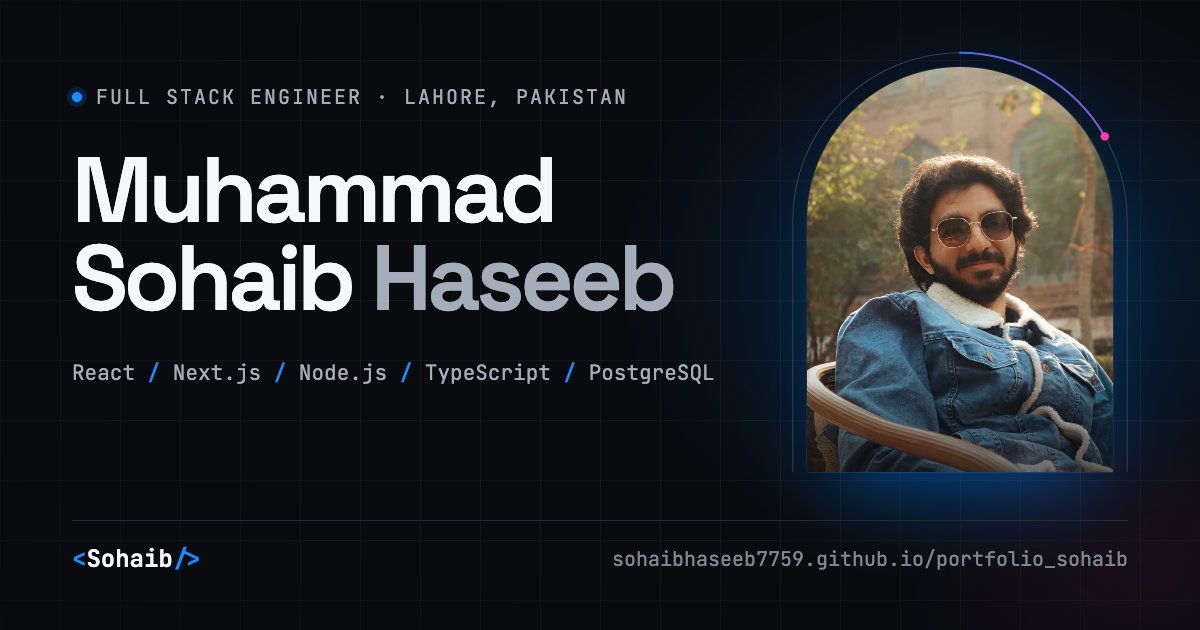
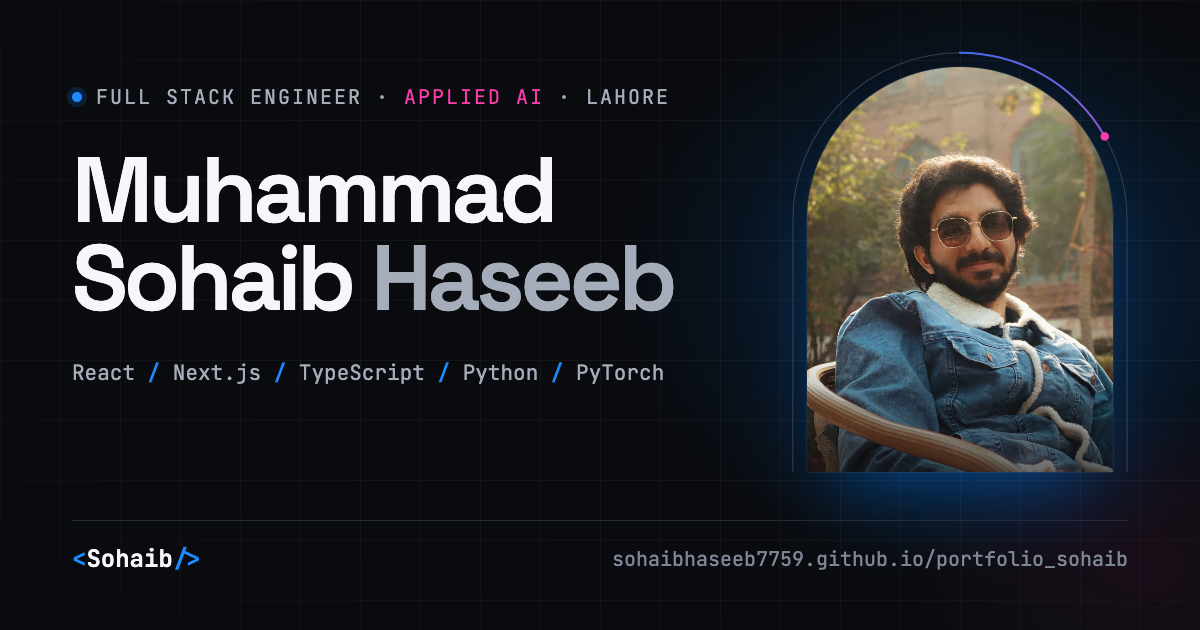
Feature AI projects and mark Backlinker AI as past role
Replace the four small course projects (usePopcorn, Forkify, Omnifood,
Far Away) with two AI projects, described from their repositories:

- Train Detector: YOLO11 segmentation trained on hand-annotated data
  (0.83 box / 0.79 mask mAP50 on validation, from its training log),
  PaddleOCR, Gradio, human-in-the-loop retraining, video OCR to JSON
- Voice Recognition: Whisper speech-to-text app with a dataset
  recorder, Transformers fine-tuning pipeline, WER evaluation and
  XTTS-v2 voice cloning (private repository)

Show applied AI across the site: hero label and lede, About copy, an
Applied AI skill area, an AI & ML toolkit row, meta description,
schema.org knowsAbout and the share image. Four project cards now sit
in a 2 x 2 grid.

Backlinker AI ended in May 2026: no longer current, bullets in past
tense, and the Experience intro no longer mentions two ongoing roles.

Changed region(s): [[0.2467, 0.573, 0.5858, 0.6032], [0.3392, 0.1206, 0.4933, 0.181], [0.5242, 0.1206, 0.555, 0.181]]

diff --git a/src/data/site.ts b/src/data/site.ts
@@ -12,6 +12,8 @@ export const profile = {
   name: "Muhammad Sohaib Haseeb",
   shortName: "Sohaib",
   role: "Full Stack Engineer",
+  /** Second line of positioning, shown beside the role in the hero. */
+  specialty: "Applied AI",
   location: "Lahore, Pakistan",
   coords: "31.55°N 74.34°E",
   email: "sohaibhaseeb01@gmail.com",
@@ -20,7 +22,13 @@ export const profile = {
   cv: "Muhammad_Sohaib_Haseeb_CV.pdf",
   github: "https://github.com/SohaibHaseeb7759",
   linkedin: "https://www.linkedin.com/in/sohaib-haseeb-9a9276282",
-  focus: ["React", "Next.js", "Node.js", "TypeScript", "PostgreSQL"],
+  focus: ["React", "Next.js", "TypeScript", "Node.js", "Python", "PyTorch"],
+  /** One-sentence pitch for the hero; `highlight` is the marked phrase inside it. */
+  lede: {
+    before: "I build",
+    highlight: "production web applications",
+    after: "across the stack, plus applied AI: computer vision and speech models.",
+  },
   /** Shown under the current roles in the hero. Leave empty to hide the line. */
   availability: "Open to full-time and contract roles · remote or Lahore",
 };
@@ -95,13 +103,12 @@ export const experience: Role[] = [
     title: "Frontend Developer",
     stack: "Next.js & TypeScript",
     start: "Jan 2026",
-    end: "Present",
-    current: true,
+    end: "May 2026",
     where: "Remote",
     points: [
-      "Build and ship responsive, type-safe UI components for a SaaS platform in Next.js and TypeScript.",
-      "Integrate REST APIs and manage asynchronous data flows, including loading and error states, for dynamic content.",
-      "Profile and optimise front-end performance, and agree API contracts with backend engineers to deliver features that scale.",
+      "Built and shipped responsive, type-safe UI components for a SaaS platform in Next.js and TypeScript.",
+      "Integrated REST APIs and managed asynchronous data flows, including loading and error states, for dynamic content.",
+      "Profiled and optimised front-end performance, and agreed API contracts with backend engineers to deliver features that scale.",
     ],
   },
   {
@@ -134,6 +141,11 @@ export const capabilities = [
     summary:
       "Client sites shipped end to end as the sole developer, on Payload CMS and WordPress so content stays editable without code. Each one is integrated, deployed, and resilient when services go down.",
   },
+  {
+    title: "Applied AI",
+    summary:
+      "Computer vision and speech models in Python: training YOLO11 segmentation on hand-annotated data, OCR with PaddleOCR, and fine-tuning Whisper with Hugging Face Transformers, measured with mAP and word error rate.",
+  },
 ];
 
 export const stack = [
@@ -148,6 +160,10 @@ export const stack = [
   {
     group: "Backend & data",
     items: ["Node.js", "Express.js", "Django REST", "Payload CMS", "Supabase", "PostgreSQL", "MySQL", "MongoDB"],
+  },
+  {
+    group: "AI & ML",
+    items: ["PyTorch", "Hugging Face Transformers", "YOLO11", "OpenAI Whisper", "PaddleOCR", "OpenCV", "Gradio", "Coqui XTTS"],
   },
   {
     group: "Tools & cloud",
@@ -209,6 +225,40 @@ export const projects: Project[] = [
     device: "phone",
   },
   {
+    slug: "train-detector",
+    title: "Train Detector",
+    kind: "Computer vision · detection, segmentation & OCR",
+    layout: "text",
+    date: "Sep 2026",
+    summary:
+      "A Gradio app that finds and outlines trains in photos with a custom-trained YOLO11 segmentation model, then reads locomotive IDs with PaddleOCR.",
+    built: [
+      "Trained YOLO11n-seg on hand-annotated CVAT polygons: 0.83 box and 0.79 mask mAP50 on its validation set",
+      "Human-in-the-loop learning: each confirmed or rejected detection joins the dataset, and the model retrains from the app",
+      "Video OCR to JSON: scans frames and exports every piece of text with frame numbers, timestamps and confidence",
+    ],
+    stack: ["Python", "YOLO11", "PaddleOCR", "Gradio", "OpenCV"],
+    flow: ["Image / video", "YOLO11-seg", "PaddleOCR", "Gradio"],
+    repo: "https://github.com/SohaibHaseeb7759/Train-Detector-Model",
+  },
+  {
+    slug: "voice-recognition",
+    title: "Voice Recognition",
+    kind: "Speech AI · Whisper speech-to-text",
+    layout: "text",
+    date: "Oct 2026",
+    summary:
+      "A desktop speech-to-text app on OpenAI Whisper, with the full pipeline to fine-tune the model on your own voice and measure the improvement.",
+    built: [
+      "A Tkinter app with live mic metering, a model picker, language detection and timestamped segments",
+      "A dataset recorder with quality checks and fixed-seed splits, feeding Whisper fine-tuning with Transformers",
+      "Word error rate evaluation for before and after, plus zero-shot voice cloning with XTTS-v2",
+    ],
+    stack: ["Python", "Whisper", "Transformers", "PyTorch", "Coqui XTTS"],
+    flow: ["Microphone", "Whisper", "Fine-tune + WER", "Text"],
+    sourcePrivate: true,
+  },
+  {
     slug: "bidmuse",
     title: "BidMuse",
     kind: "Online bidding platform · Final year project",
@@ -233,59 +283,6 @@ export const projects: Project[] = [
     built: ["WebSocket-based real-time messaging", "User authentication", "A responsive chat interface"],
     stack: ["React.js", "Node.js", "Express.js", "MongoDB", "WebSockets"],
     flow: ["React", "WebSockets", "Node + Express", "MongoDB"],
-  },
-  {
-    slug: "usepopcorn",
-    title: "usePopcorn",
-    kind: "Movie search & rating app",
-    layout: "text",
-    summary:
-      "Search any film, open its details, rate it with a custom star component, and keep a personal watched list.",
-    built: [
-      "Live search against the OMDb API with loading and error states",
-      "A reusable, configurable StarRating component",
-      "A custom useLocalStorage hook so the watched list survives reloads",
-    ],
-    stack: ["React", "Hooks", "OMDb API", "localStorage"],
-    flow: ["React + Hooks", "OMDb API", "localStorage"],
-    repo: "https://github.com/SohaibHaseeb7759/usePopcorn-Sohaib",
-  },
-  {
-    slug: "forkify",
-    title: "Forkify",
-    kind: "Recipe discovery app",
-    layout: "text",
-    summary: "Browse and search a large recipe catalogue, open full recipes, and save favourites for later.",
-    built: ["Recipe search and result browsing", "Detailed recipe views", "Saving favourite recipes"],
-    stack: ["JavaScript", "HTML", "CSS", "Forkify API"],
-    flow: ["HTML + CSS", "JavaScript", "Forkify API"],
-    live: "https://forkify-sohaib.netlify.app/",
-  },
-  {
-    slug: "omnifood",
-    title: "Omnifood",
-    kind: "Responsive marketing site",
-    layout: "text",
-    summary: "A responsive restaurant and meal-subscription website that presents the menu and services.",
-    built: ["Fully responsive layout", "Modern UI/UX patterns for engagement", "Hand-written HTML, CSS, and JavaScript"],
-    stack: ["HTML", "CSS", "JavaScript"],
-    flow: ["Semantic HTML", "Responsive CSS", "JavaScript"],
-    live: "https://omnifood-sohaib.netlify.app/",
-  },
-  {
-    slug: "far-away",
-    title: "Far Away",
-    kind: "Travel packing list",
-    layout: "text",
-    summary: "A packing checklist for trips: add items with quantities, tick them off, sort, and clear the list.",
-    built: [
-      "Add, delete, and toggle packed items",
-      "Sort by input order, description, or packed status",
-      "Live stats on how much is packed",
-    ],
-    stack: ["React", "State lifting", "CSS"],
-    flow: ["Form", "App state", "List + Stats"],
-    repo: "https://github.com/SohaibHaseeb7759/Trevel-List-Sohaib",
   },
 ];
 
@@ -314,7 +311,7 @@ export const about = {
   title: "Across the stack, down to the",
   highlight: "details",
   lead: "I'm a full stack engineer who builds production web applications with React, Next.js, Angular, Node.js, and TypeScript, from SaaS products to marketing sites I've delivered end to end as the sole developer.",
-  body: `I'm comfortable owning a feature across the stack: designing the database or CMS, writing the API between them, and shipping a responsive, high-performance interface on top. I studied computer science at ${education.school}, which still shapes how I reason about data, structure, and edge cases.`,
+  body: `I'm comfortable owning a feature across the stack: designing the database or CMS, writing the API between them, and shipping a responsive, high-performance interface on top. I studied computer science at ${education.school}, and I've been putting that to work in AI: training a YOLO segmentation model for train detection and building a Whisper speech pipeline I can fine-tune on my own voice.`,
   facts: [
     { label: "Based in", value: profile.location, note: "Working onsite and remote" },
     {
@@ -338,19 +335,19 @@ export const sections = {
     n: "02",
     label: "Experience",
     title: "Where I've been building.",
-    intro: "Three roles across client sites and SaaS products. Two are ongoing: one onsite and one remote.",
+    intro: "Three roles across client sites and SaaS products, most recently onsite at Transcure in Lahore.",
   },
   work: {
     n: "03",
     label: "Selected work",
-    title: "Projects, from a production PWA to hand-built sites.",
+    title: "Projects, from a production PWA to trained AI models.",
     intro: "Each one is a working application: live where it's deployed, and open source wherever the code is public.",
   },
   skills: {
     n: "04",
     label: "Skills",
     title: "What I bring to a product team.",
-    intro: "Three areas I own end to end, from the database and CMS to the interface people actually use.",
+    intro: "Four areas I own end to end, from the database and CMS to the interface people use and the models behind it.",
     toolkit: "Toolkit",
   },
   contact: {
